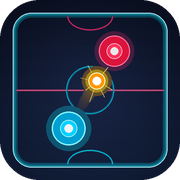
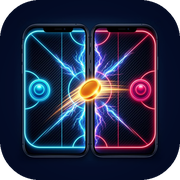
feat: icone adaptativo de mesa estendida, fundo vertical e titulo oficial do menu
- Adiciona icone de Mesa Estendida com 2 smartphones lado a lado, raios e safe zone de 15%
- Gera camadas de primeiro plano ic_launcher_foreground.png em todas as densidades (mdpi a xxxhdpi)
- Remove vetor antigo ic_launcher_foreground.xml e aponta mipmap-anydpi para novo adaptive icon
- Atualiza store_assets/icon_512x512.png e favicons do portal web
- Atualiza bg_fiery_puck.jpg com arte 9:16 vertical limpa do Disco Flamejante (sem texto)
- Suaviza gradiente do scrim no MainMenuScreen.kt para visualizacao nitida do fundo
- Adiciona banner transparente title_banner_championship.png no cabecalho do menu principal
- Registra termos canonicos no GLOSSARY.md e documenta decisao na ADR 0021

diff --git a/app/src/main/java/dev/vmellos/airhockey/feature/menu/ui/MainMenuScreen.kt b/app/src/main/java/dev/vmellos/airhockey/feature/menu/ui/MainMenuScreen.kt
@@ -123,16 +123,16 @@ fun MainMenuScreen(
             contentScale = ContentScale.Crop
         )
 
-        // Camada de Contraste / Scrim para destacar os modos de jogo sobre o fundo
+        // Camada de Contraste / Scrim sutil para manter legibilidade sem apagar o fundo
         Box(
             modifier = Modifier
                 .fillMaxSize()
                 .background(
                     Brush.verticalGradient(
                         colors = listOf(
-                            Color(0xDD070B14),
-                            Color(0x99070B14),
-                            Color(0xF2070B14)
+                            Color(0x66070B14),
+                            Color(0x33070B14),
+                            Color(0x88070B14)
                         )
                     )
                 )
@@ -277,24 +277,26 @@ fun MainMenuScreen(
                 }
             }
 
-            // Título Neon Arcade Volumétrico
+            // Título Neon Arcade Volumétrico com Arte Oficial
             Column(
                 horizontalAlignment = Alignment.CenterHorizontally,
-                modifier = Modifier.padding(vertical = 4.dp)
+                modifier = Modifier
+                    .fillMaxWidth()
+                    .padding(vertical = 4.dp)
             ) {
-                Text(
-                    text = "AIR HOCKEY",
-                    color = Color(0xFF00E5FF),
-                    fontSize = 44.sp,
-                    fontWeight = FontWeight.Black,
-                    letterSpacing = 6.sp,
-                    fontFamily = FontFamily.SansSerif
+                Image(
+                    painter = painterResource(id = R.drawable.title_banner_championship),
+                    contentDescription = stringResource(R.string.app_name),
+                    modifier = Modifier
+                        .fillMaxWidth(0.92f)
+                        .height(72.dp),
+                    contentScale = ContentScale.Fit
                 )
                 Spacer(modifier = Modifier.height(2.dp))
                 Text(
                     text = stringResource(R.string.app_tagline),
                     color = Color(0xFF94A3B8),
-                    fontSize = 13.sp,
+                    fontSize = 12.sp,
                     fontWeight = FontWeight.Medium,
                     letterSpacing = 1.sp
                 )

diff --git a/docs/adr/0021-icone-mesa-estendida-lado-a-lado-e-identidade-visual-do-menu.md b/docs/adr/0021-icone-mesa-estendida-lado-a-lado-e-identidade-visual-do-menu.md
@@ -1,0 +1,30 @@
+# 21. Ícone de Mesa Estendida Lado a Lado e Identidade Visual do Menu
+
+## Status
+Aceito (Complementa a ADR 0005 e a ADR 0019)
+
+## Contexto
+1. O diferencial competitivo central do jogo é o modo para dois dispositivos móveis físicos (**Mesa Estendida**), executado na física e na projeção de coordenadas em **Disposição Topo-a-Topo** (ADR 0005, `TableProjection.kt`), onde dois jogadores ficam frente a frente com as bordas superiores dos celulares em contato mútuo.
+2. Contudo, os ícones de lançador do Android e os ativos de vitrine da Google Play Store operam estritamente em proporção quadrada 1:1 (512x512). Reproduzir dois smartphones dispostos topo-a-topo na vertical resulta em uma proporção física extrema de aproximadamente 40:9 (4,4 vezes mais alta que larga). Em um enquadramento 1:1, isso força uma escala reduzida onde os aparelhos ocupam uma faixa minúscula no centro, com grandes vazios laterais, destruindo a legibilidade do ícone em grades de 48dp na tela inicial do celular.
+3. Ao dispor os dois aparelhos **Lado a Lado**, a proporção combinada atinge aproximadamente 20:18 (~1:1), preenchendo harmonicamente o quadrado, permitindo carcaças amplas, visualização nítida dos rebatedores em oposição cromática (ciano vs. carmesim) e o disco cruzando o Vão Físico com arcos elétricos.
+4. Além disso, o plano de fundo do menu principal (`bg_fiery_puck.jpg`) continha textos, botões e cartões de modos de jogo desenhados diretamente na imagem de mapa de bits, gerando duplicidade visual e poluição com os cartões interativos do Jetpack Compose. O cabeçalho também utilizava um componente `Text` simples sem a identidade cromada arcade do projeto.
+
+## Decisão
+1. **Licença Artística Comercial no Ícone de Mesa Estendida**:
+   - Assumir formalmente a disposição **Lado a Lado** como licença visual de marketing e iconografia na Google Play Store (`store_assets/icon_512x512.png`), no lançador Android (`res/mipmap-*`) e no portal web.
+   - Manter a regra de autoridade física e a projeção de coordenadas do jogo estritamente em **Disposição Topo-a-Topo** (`TableProjection.kt`), preservando a ergonomia presencial dos participantes frente a frente.
+   - Aplicar recuo perimetral de segurança (Safe Zone de 15%) com gradiente escuro contínuo, assegurando que máscaras circulares e esquilos (squircles) de diferentes fabricantes Android não decepem as bordas ou botões dos smartphones.
+
+2. **Plano de Fundo Despoluído do Disco Flamejante**:
+   - Substituir `bg_fiery_puck.jpg` por arte cinematográfica 16:9 limpa, contendo exclusivamente o disco metálico em chamas de plasma sobre a mesa neon e holofotes de estádio, com 0% de textos ou botões embutidos na imagem.
+   - Otimizar o arquivo para ~333KB, garantindo carregamento instantâneo e contenção do tamanho do APK.
+
+3. **Título Arcade Volumétrico no Menu Principal**:
+   - Adicionar o banner transparente com canal alfa `title_banner_championship.png` estampado com **"AIR HOCKEY ULTIMATE CHAMPIONSHIP"** (chanfro metálico escovado, chamas no primeiro bloco e relâmpagos ciano no segundo).
+   - Renderizar o componente no topo de `MainMenuScreen.kt` mantendo o slogan localizado da aplicação logo abaixo.
+
+## Consequências
+- **Positiva**: Máximo destaque visual para a feature de dois celulares físicos na vitrine da Play Store, convertendo visitantes em instalações com leitura instantânea do conceito.
+- **Positiva**: Fim dos conflitos de máscara circular no Android: o ícone mantém integridade em qualquer launcher (Pixel, One UI, MIUI).
+- **Positiva**: Menu principal com separação de responsabilidades cristalina: arte de segundo plano sem interferência e componentes Compose totalmente legíveis e interativos.
+- **Positiva**: Documentação explícita da licença artística, evitando que futuros desenvolvedores questionem a divergência entre a arte lateral do ícone e a física topo-a-topo do motor.

diff --git a/GLOSSARY.md b/GLOSSARY.md
@@ -170,6 +170,14 @@ _Avoid_: Pacote de som, broadcast de áudio, sync de áudio
 
 ## Interface e Apresentação
 
+**Ícone de Mesa Estendida**:
+A representação gráfica oficial do aplicativo na loja e no lançador exibindo dois dispositivos móveis dispostos lado a lado com o disco flamejante cruzando o vão físico eletrizado, adotada como licença visual comercial para maximizar a proporção quadrada 1:1.
+_Avoid_: Ícone simples, logo padrão, ícone genérico
+
+**Título Arcade Volumétrico**:
+O letreiro visual oficial do jogo estilizado em chanfro metálico cromado, labaredas de plasma em "AIR", raios elétricos ciano em "HOCKEY" e o subtítulo "ULTIMATE CHAMPIONSHIP", renderizado como cabeçalho gráfico no menu principal.
+_Avoid_: Título em texto puro, texto do menu, logo estático
+
 **Miniatura da Mesa**:
 A representação esquemática reduzida da arena desenhada nos cartões do menu principal para ilustrar a disposição física de cada modo de jogo.
 _Avoid_: Ícone de campo, desenho do modo, preview da mesa
